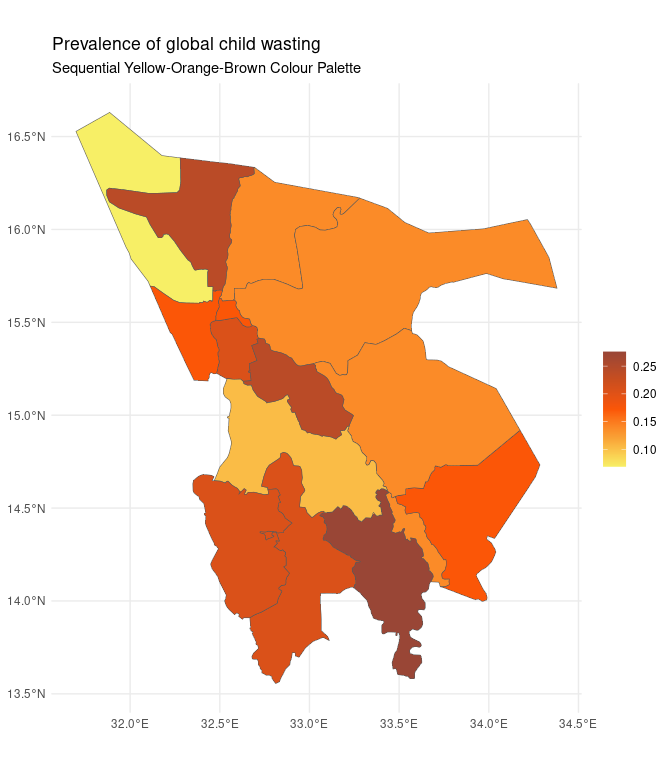
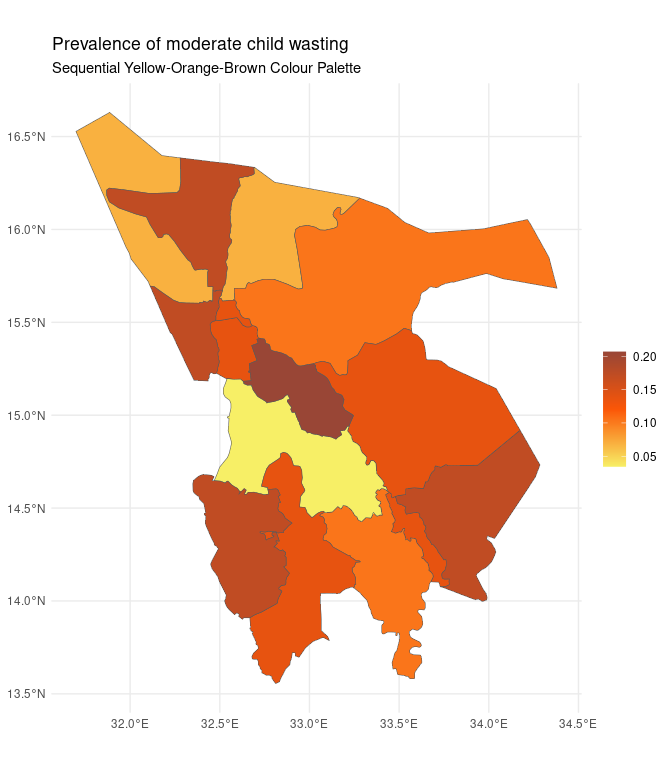
update maps in README

Changed region(s): [[0.0938, 0.125, 0.8125, 0.9062], [0.25, 0.0312, 0.5312, 0.0625], [0.9375, 0.4375, 0.9688, 0.5938]]

diff --git a/README.md b/README.md
@@ -259,13 +259,13 @@ ggplot(data = mtcars, mapping = aes(x = mpg, y = disp, colour = factor(cyl))) +
 
 ### Yellow-Orange-Brown
 ggplot(data = nut_survey_map) +
-  geom_sf(mapping = aes(fill = muac_gam)) +
+  geom_sf(mapping = aes(fill = muac_mam)) +
   scale_fill_gradientn(
     name = "",
-    colours = create_palette_sequential(n = 5, name = "ylorbr")
+    colours = create_palette_sequential(n = 9, name = "ylorbr")
   ) +
   labs(
-    title = "Prevalence of global child wasting",
+    title = "Prevalence of moderate child wasting",
     subtitle = "Sequential Yellow-Orange-Brown Colour Palette"
   ) +
   theme_minimal()
@@ -275,7 +275,7 @@ ggplot(data = nut_survey_map) +
   geom_sf(mapping = aes(fill = muac_sam)) +
   scale_fill_gradientn(
     name = "",
-    colours = create_palette_sequential(n = 5, name = "ylgnbu")
+    colours = create_palette_sequential(n = 9, name = "ylgnbu")
   ) +
   labs(
     title = "Prevalence of severe child wasting",
